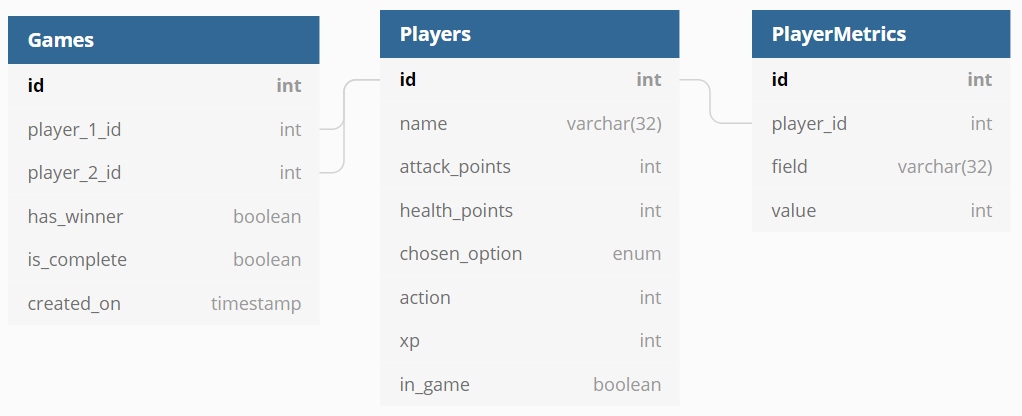
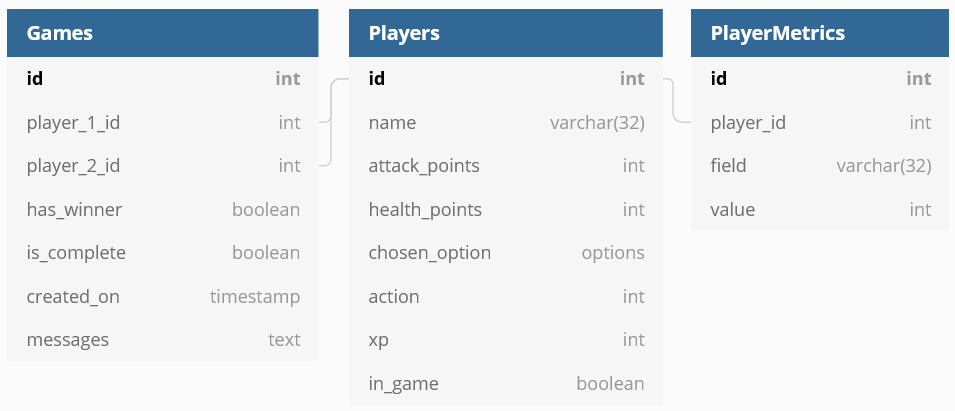
Update README and db schema diagram to include Games messages column; fix README typos

diff --git a/README.md b/README.md
@@ -4,7 +4,7 @@
 Do battle with your opponent through random dice rolls! Generally for projects approaching this complexity I'd start using Composer to handle dependencies and utilize existing libraries for a Pub/Sub solution. However since this is a coding exercise I wrote it all from scratch.
 
 ## Game Mechanics
-Each player has a set amount of attack and health points. A game starts with both players at 20 health points and 2 attack points. Each turn both player roll a six sided die. On a 1-2 the player attacks; 3-4 the player defends; 5-6 the player rests. Attack attempts to do the attack points worth of damage to the opponent. Defend prevents any damage from a possible attack. Rest heals the player 1 health point. If both players attack, then each rolls the die for initiative, and only the player with the higher roll does damage.
+Each player has a set amount of attack and health points. A game starts with both players at 20 health points and 2 attack points. Each turn both players roll a six sided die. On a 1-2 the player attacks; 3-4 the player defends; 5-6 the player rests. Attack attempts to do the attack points worth of damage to the opponent. Defend prevents any damage from a possible attack. Rest heals the player 1 health point. If both players attack, then each rolls the die for initiative, and only the player with the higher initiative roll does damage.
 
 ## How to play
 To play the game run `php main.php` to start up the command line interface client and play against an AI. Your options are to:
@@ -31,6 +31,6 @@ Some examples of using the schema follow:
 * Players would be loaded from the DB when the client was instantiated to preserve state across play sessions. 
 * When a player started a game the server would look for an existing game with only 1 player assigned to perform matchmaking.
 * If a game has existed for a certain wait time (determined by checking the `created_on` field) with only 1 player, then an AI would be assigned to play against the waiting player.
-* Once a game is complete the Replay class would save all the messages it had in memory to the Games table, allowing that game to be replayed by any client in the future.
-* The `xp` column in the Players table would be incremented for each match to add player progression mechanics. This could also include increasing `attack_points` or otherwise boosting the player's stats over time.
-* The `PlayerMetrics` table would be used to record things like wins, losses, etc. For example, when a player won you'd update the counter with `UPDATE PlayerMetrics INCREMENT value WHERE player_id = %d AND field = 'won'`;. Indexes on `field` and `player_id` would let you query for all of a particular player's stats, or sum all wins/losses to get global stats.
+* Once a game is complete the Replay class would save all the messages it had in memory to the `messages` column on the Games table, allowing that game to be replayed by any client in the future.
+* The `xp` column in the Players table would be incremented for each fight to add player progression mechanics. This could also include increasing `attack_points` or otherwise boosting the player's stats over time.
+* The `PlayerMetrics` table would be used to record things like wins, losses, etc. For example, when a player won you'd update the counter with `UPDATE PlayerMetrics SET value = value + 1 WHERE player_id = %d AND field = 'won';`. Indexes on `field` and `player_id` would let you query for all of a particular player's stats, or sum all wins/losses to get global stats.
